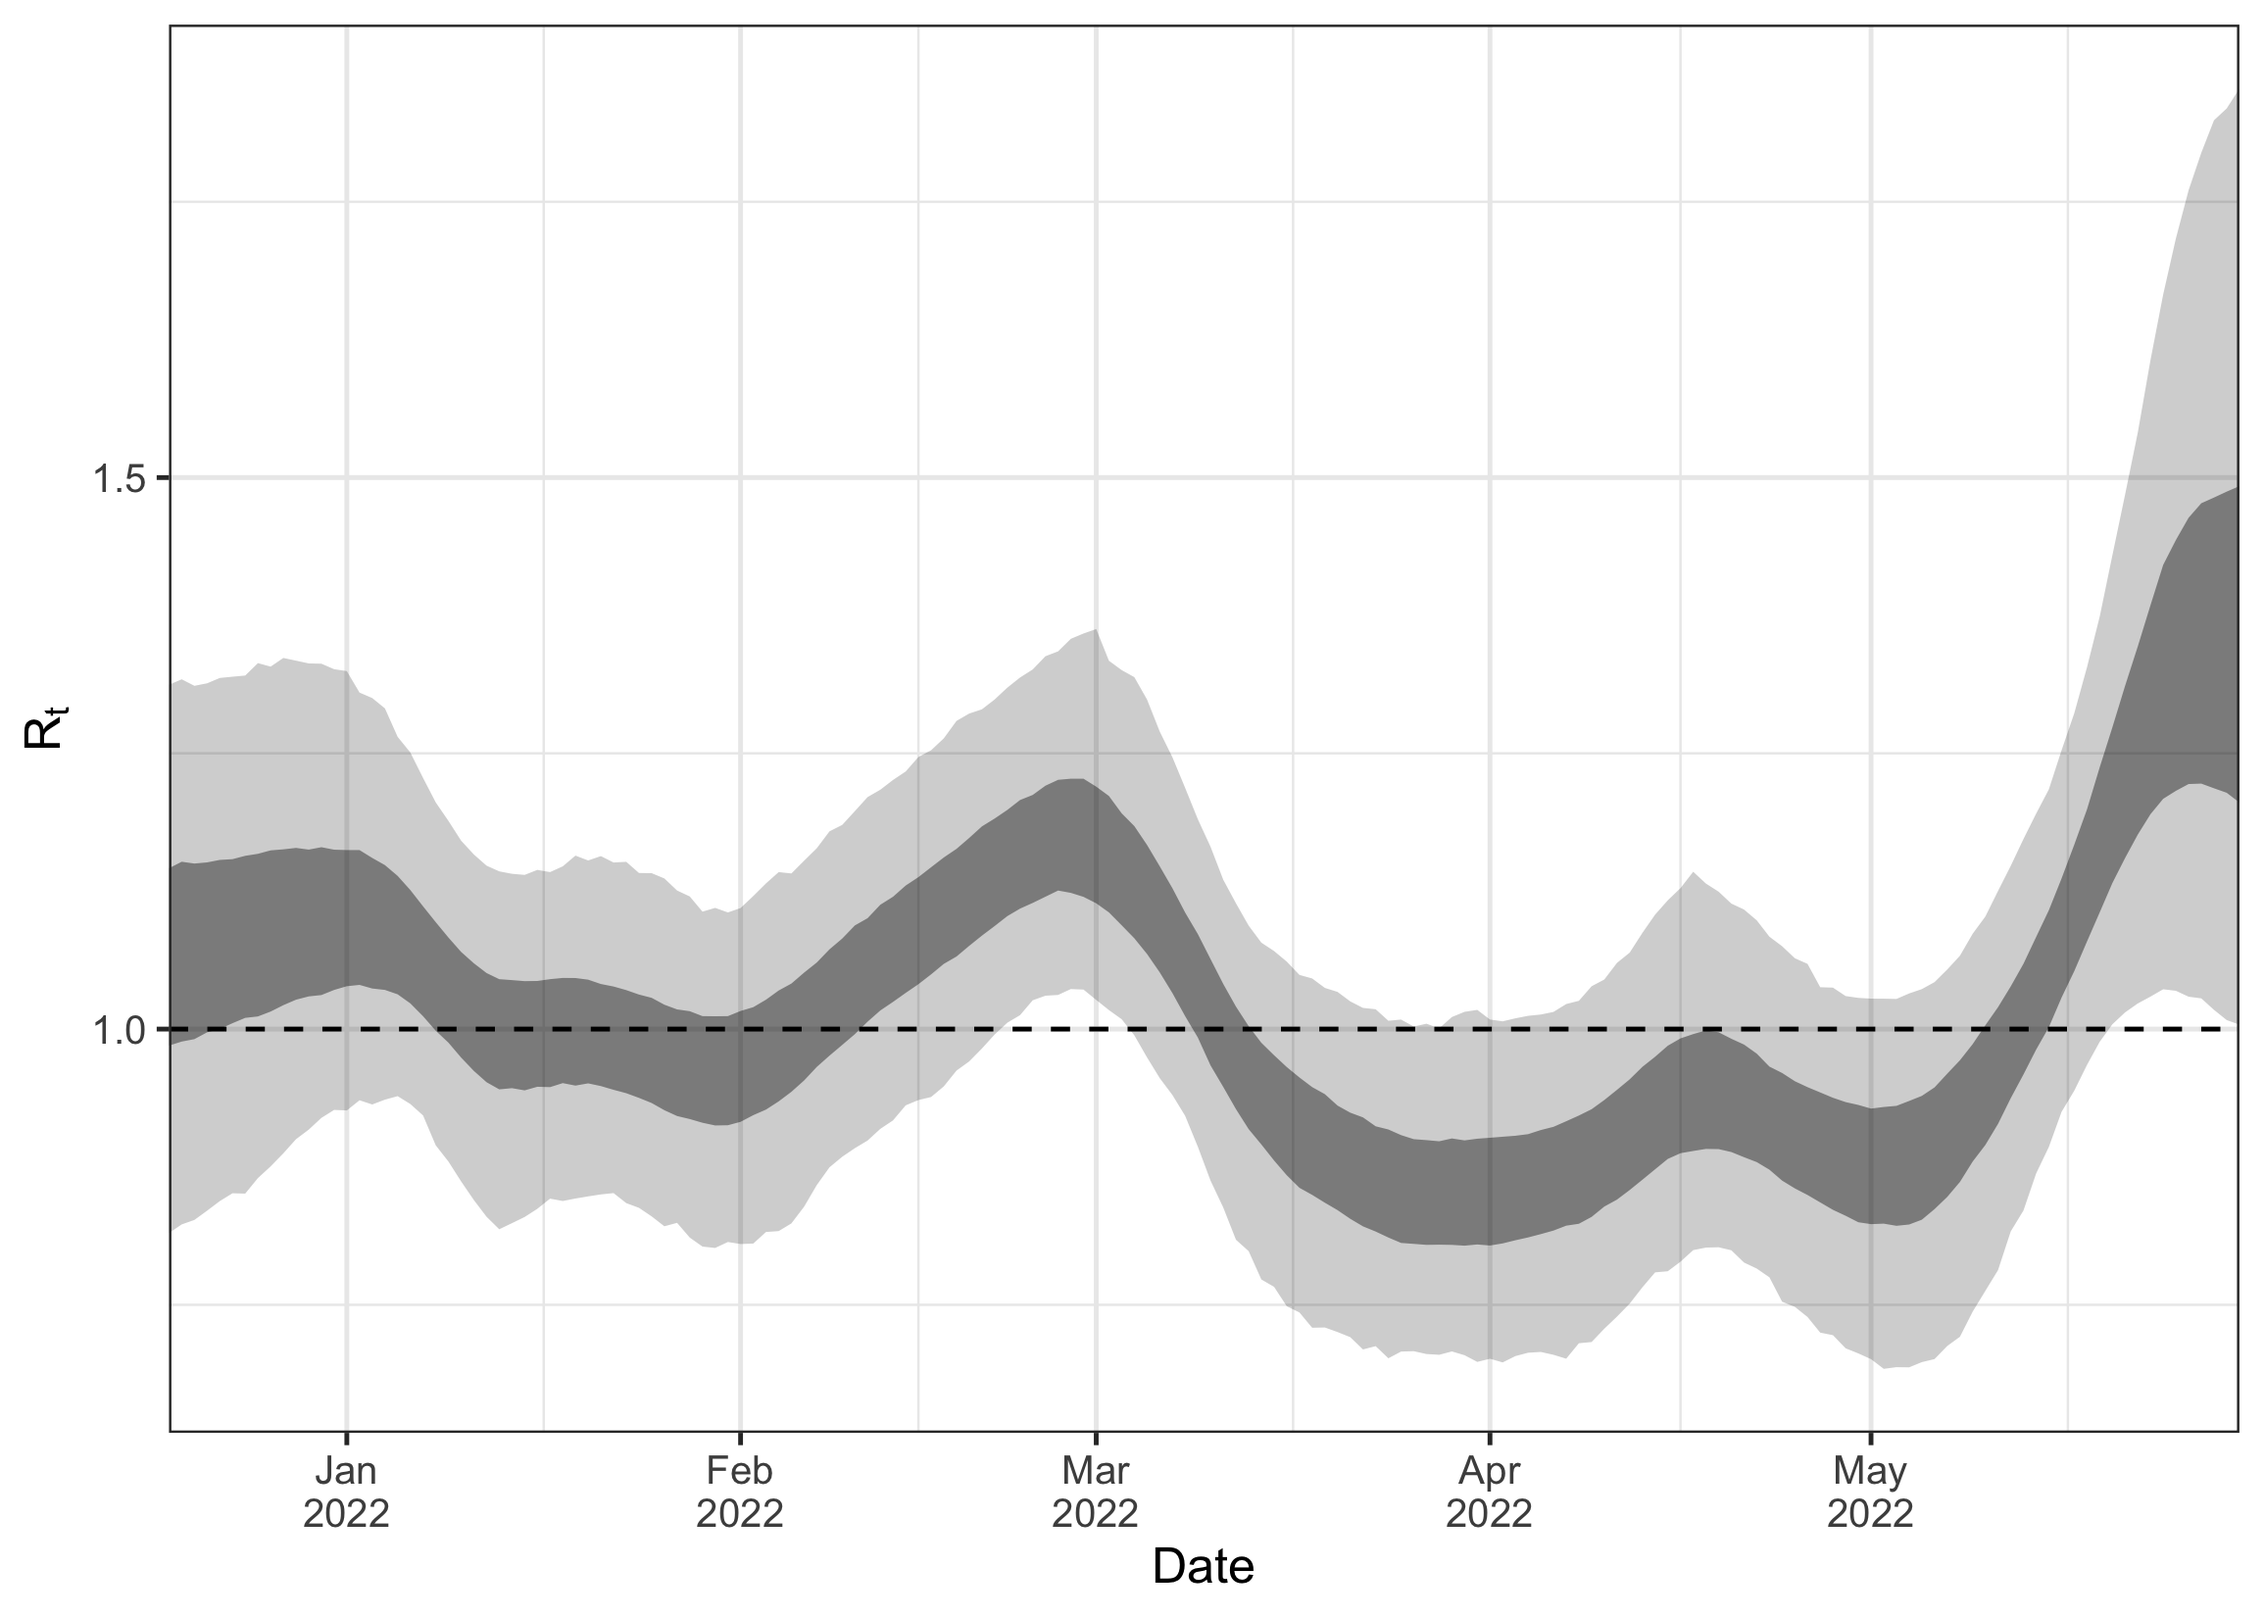
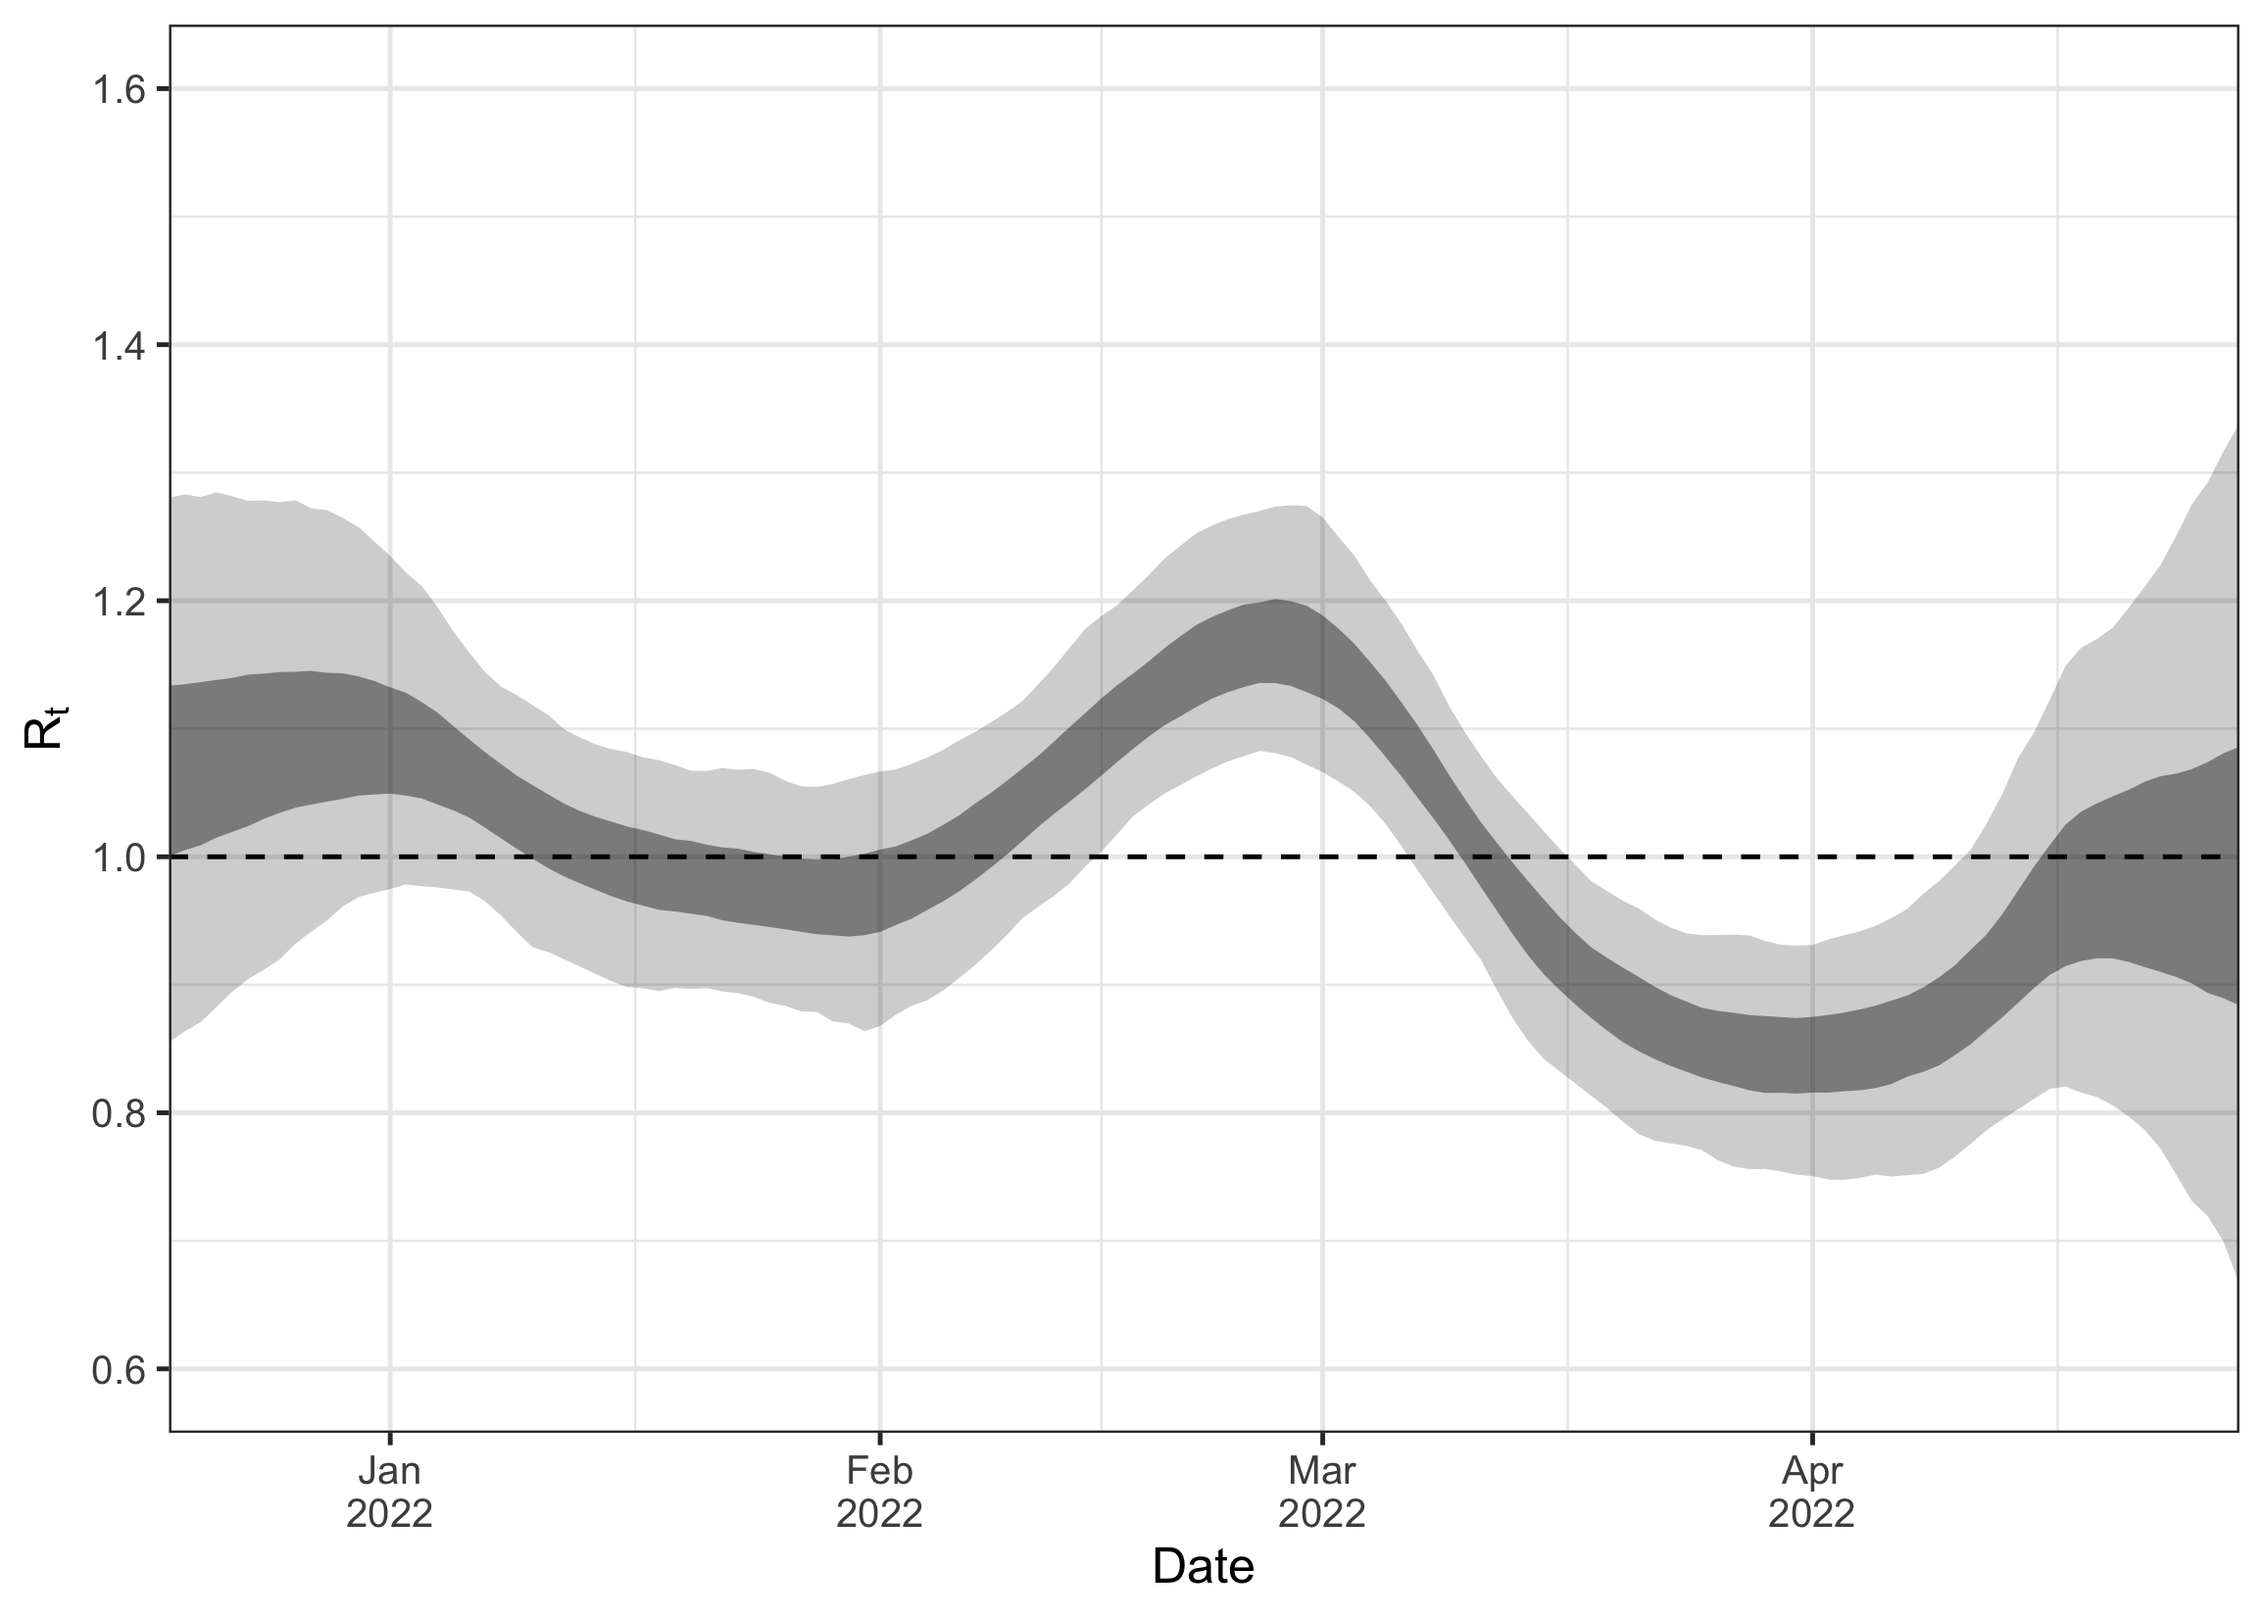
Update README

diff --git a/README.md b/README.md
@@ -100,17 +100,17 @@ assumptions.
 ``` r
 str(data_zurich)
 #> List of 4
-#>  $ measurements:Classes 'data.table' and 'data.frame':   151 obs. of  2 variables:
-#>   ..$ date         : Date[1:151], format: "2022-01-01" "2022-01-02" ...
-#>   ..$ concentration: num [1:151] NA NA 456 748 574 ...
+#>  $ measurements:Classes 'data.table' and 'data.frame':   120 obs. of  2 variables:
+#>   ..$ date         : Date[1:120], format: "2022-01-01" "2022-01-02" ...
+#>   ..$ concentration: num [1:120] NA NA 456 748 574 ...
 #>   ..- attr(*, ".internal.selfref")=<externalptr> 
-#>  $ flows       :Classes 'data.table' and 'data.frame':   151 obs. of  2 variables:
-#>   ..$ date: Date[1:151], format: "2022-01-01" "2022-01-02" ...
-#>   ..$ flow: num [1:151] 3.41e+11 3.41e+11 1.59e+11 1.61e+11 3.72e+11 ...
+#>  $ flows       :Classes 'data.table' and 'data.frame':   120 obs. of  2 variables:
+#>   ..$ date: Date[1:120], format: "2022-01-01" "2022-01-02" ...
+#>   ..$ flow: num [1:120] 3.41e+11 3.41e+11 1.59e+11 1.61e+11 3.72e+11 ...
 #>   ..- attr(*, ".internal.selfref")=<externalptr> 
-#>  $ cases       :Classes 'data.table' and 'data.frame':   151 obs. of  2 variables:
-#>   ..$ date : Date[1:151], format: "2022-01-01" "2022-01-02" ...
-#>   ..$ cases: num [1:151] NA NA 323 367 348 ...
+#>  $ cases       :Classes 'data.table' and 'data.frame':   120 obs. of  2 variables:
+#>   ..$ date : Date[1:120], format: "2022-01-01" "2022-01-02" ...
+#>   ..$ cases: num [1:120] NA NA 323 367 348 ...
 #>   ..- attr(*, ".internal.selfref")=<externalptr> 
 #>  $ units       :List of 2
 #>   ..$ concentration: chr "gc/mL"
@@ -132,11 +132,11 @@ data_zurich$measurements
 #>   4: 2022-01-04      747.8792
 #>   5: 2022-01-05      573.7020
 #>  ---                         
-#> 147: 2022-05-27      278.0198
-#> 148: 2022-05-28      238.0627
-#> 149: 2022-05-29      161.5694
-#> 150: 2022-05-30      600.0688
-#> 151: 2022-05-31      418.8482
+#> 116: 2022-04-26      182.3664
+#> 117: 2022-04-27      379.2421
+#> 118: 2022-04-28      439.7427
+#> 119: 2022-04-29      394.0033
+#> 120: 2022-04-30      293.1242
 ```
 
 To show the handling of missing data more clearly, we make our data
@@ -178,18 +178,18 @@ concentration (mL here in both cases).
 
 ``` r
 data_zurich$flows
-#>            date         flow
-#>   1: 2022-01-01 341163082483
-#>   2: 2022-01-02 341163082483
-#>   3: 2022-01-03 158972454250
-#>   4: 2022-01-04 160849294683
-#>   5: 2022-01-05 372301227483
-#>  ---                        
-#> 147: 2022-05-27 149443751917
-#> 148: 2022-05-28 142955378400
-#> 149: 2022-05-29 143776386433
-#> 150: 2022-05-30 151964157700
-#> 151: 2022-05-31 155315855550
+#>            date        flow
+#>   1: 2022-01-01 3.41163e+11
+#>   2: 2022-01-02 3.41163e+11
+#>   3: 2022-01-03 1.58972e+11
+#>   4: 2022-01-04 1.60849e+11
+#>   5: 2022-01-05 3.72301e+11
+#>  ---                       
+#> 116: 2022-04-26 3.30659e+11
+#> 117: 2022-04-27 2.06046e+11
+#> 118: 2022-04-28 1.58373e+11
+#> 119: 2022-04-29 1.52156e+11
+#> 120: 2022-04-30 2.08685e+11
 ```
 
 Note: In contrast to the concentration measurements, the flow data must
@@ -266,7 +266,7 @@ suggest_load_per_case(
   data_zurich$flows,
   ascertainment_prop = 1
 )
-#> [1] 6e+11
+#> [1] 5.9e+11
 ```
 
 Hence we will assume `6e+11 gc/person` as the average shedding load.
@@ -308,7 +308,7 @@ options(mc.cores = 4) # allow stan to use 4 cores, i.e. one for each chain
 ww_result <- EpiSewer(
   data = ww_data,
   assumptions = ww_assumptions,
-  fit_opts = set_fit_opts(sampler = sampler_stan_mcmc(iter_warmup = 500, iter_sampling = 1000, chains = 4))
+  fit_opts = set_fit_opts(sampler = sampler_stan_mcmc(iter_warmup = 1000, iter_sampling = 1000, chains = 4))
 )
 ```
 
@@ -355,20 +355,23 @@ plot_concentration(ww_result, measurements = data_zurich$measurements, include_n
 
 Since the model fit looked decent at first glance, we now inspect our
 main parameter of interest, the effective reproduction number over time.
-Again, the ribbon shows the 95% credible interval.
+Again, the ribbon shows the 95% credible interval. We see that even with
+only two measurements per week, we get a fairly clear signal for R being
+above or below the critical threshold of 1.
 
 ``` r
 plot_R(ww_result)
 ```
 
-<img src="man/figures/README-R-1.png" width="100%" /> We can see that
-the estimates for R go back further into the past than our observations.
-This is due to the delay from infection to shedding, i.e. concentration
-measurements observed today are mostly a signal of infections in the
-past. This is also why the R estimates close to the present are strongly
-uncertain. The measurements observed until the present provide only a
-delayed signal about transmission dynamics, so the most recent R
-estimates are informed by only little data.
+<img src="man/figures/README-R-1.png" width="100%" />
+
+Note that the estimates for R go back further into the past than our
+observations. This is due to the delay from infection to shedding,
+i.e. concentration measurements observed today are mostly a signal of
+infections in the past. This is also why the R estimates close to the
+present are strongly uncertain. The measurements observed until the
+present provide only a delayed signal about transmission dynamics, so
+the most recent R estimates are informed by only little data.
 
 #### Latent parameters
 
@@ -407,7 +410,7 @@ We can further inspect our results object. It has three attributes:
 
 ``` r
 names(ww_result)
-#> [1] "job"     "summary" "fitted"
+#> [1] "job"     "hashes"  "summary" "fitted"
 ```
 
 The `job` attribute stores all information about the job that was
@@ -417,9 +420,9 @@ meta-information, and the settings for the sampler. By calling
 
 ``` r
 names(ww_result$job)
-#>  [1] "job_name"      "jobarray_size" "data"          "init"         
-#>  [5] "fit_opts"      "priors_text"   "meta_info"     "overwrite"    
-#>  [9] "model"         "model_stan"
+#>  [1] "job_name"      "jobarray_size" "model_stan"    "data"         
+#>  [5] "model"         "init"          "fit_opts"      "priors_text"  
+#>  [9] "metainfo"      "overwrite"
 ```
 
 In particular, we can print a concise summary of the modeling details
@@ -447,7 +450,7 @@ ww_result$job$model
 #> 
 #> infections
 #>  |- generation_dist_assume
-#>  |- R_estimate_rw
+#>  |- R_estimate_splines
 #>  |- seeding_estimate_rw
 #>  |- infection_noise_estimate
 ```
@@ -472,18 +475,18 @@ number.
 
 ``` r
 ww_result$summary$R
-#>            date     mean   median lower_0.95 lower_0.5 upper_0.95 upper_0.5
-#>   1: 2021-12-06 1.045315 1.048455  0.6545776 0.9272795   1.411848  1.165302
-#>   2: 2021-12-07 1.045749 1.048955  0.6712394 0.9291202   1.411490  1.164115
-#>   3: 2021-12-08 1.046740 1.048185  0.6976070 0.9357220   1.388787  1.160318
-#>   4: 2021-12-09 1.047307 1.049825  0.7063578 0.9420907   1.380422  1.156362
-#>   5: 2021-12-10 1.047131 1.051345  0.7073939 0.9462520   1.369877  1.150200
-#>  ---                                                                       
-#> 172: 2022-05-26 1.349490 1.333315  1.0293482 1.2221525   1.760449  1.463567
-#> 173: 2022-05-27 1.357525 1.337010  1.0278413 1.2225450   1.794444  1.476707
-#> 174: 2022-05-28 1.360521 1.340215  1.0174218 1.2183100   1.823932  1.481882
-#> 175: 2022-05-29 1.361005 1.336515  1.0081528 1.2142350   1.834631  1.487255
-#> 176: 2022-05-30 1.361629 1.338500  1.0040498 1.2054100   1.852623  1.492240
+#>            date      mean    median lower_0.95 lower_0.5 upper_0.5 upper_0.95
+#>   1: 2021-12-06 1.0426791 1.0425000  0.7180512 0.9429652  1.147620   1.357138
+#>   2: 2021-12-07 1.0432292 1.0431400  0.7351968 0.9481753  1.142900   1.345717
+#>   3: 2021-12-08 1.0440299 1.0446050  0.7540923 0.9512257  1.137960   1.334841
+#>   4: 2021-12-09 1.0450871 1.0457950  0.7651638 0.9558753  1.135803   1.324241
+#>   5: 2021-12-10 1.0464089 1.0472550  0.7759100 0.9602262  1.133820   1.322272
+#>  ---                                                                         
+#> 140: 2022-04-24 0.9868777 0.9820210  0.7517854 0.9060957  1.064933   1.250580
+#> 141: 2022-04-25 0.9863933 0.9807570  0.7308977 0.9010367  1.068500   1.275355
+#> 142: 2022-04-26 0.9861018 0.9812930  0.7192404 0.8936360  1.073967   1.292529
+#> 143: 2022-04-27 0.9862395 0.9795155  0.6991881 0.8894863  1.080833   1.316732
+#> 144: 2022-04-28 0.9867506 0.9798795  0.6661445 0.8838173  1.085965   1.338514
 #>      seeding
 #>   1:    TRUE
 #>   2:    TRUE
@@ -491,15 +494,15 @@ ww_result$summary$R
 #>   4:    TRUE
 #>   5:    TRUE
 #>  ---        
-#> 172:   FALSE
-#> 173:   FALSE
-#> 174:   FALSE
-#> 175:   FALSE
-#> 176:   FALSE
+#> 140:   FALSE
+#> 141:   FALSE
+#> 142:   FALSE
+#> 143:   FALSE
+#> 144:   FALSE
 ```
 
-Finally, the `fitted` attribute provides access to all details of the
-fitted stan model. See
+The `fitted` attribute provides access to all details of the fitted stan
+model. See
 [cmdstanr](https://mc-stan.org/cmdstanr/reference/CmdStanMCMC.html) for
 details.
 
@@ -539,5 +542,26 @@ ww_result$fitted$diagnostic_summary()
 #> [1] 0 0 0 0
 #> 
 #> $ebfmi
-#> [1] 0.8823145 0.8001372 0.8175664 0.8383984
+#> [1] 0.6082754 0.7733432 0.7691555 0.8166714
+```
+
+Finally, the `hashes` attribute gives us several hashes that uniquely
+identify the job which was run. These can be used to check whether two
+job results used the same or different models, input data, fitting
+options, or inits. If all hashes are identical (and the seed is not
+NULL), then the results should also be identical.
+
+``` r
+ww_result$hashes
+#> $model
+#> [1] "628ed04c15688d9f64124147adacfa0d"
+#> 
+#> $input
+#> [1] "034773afefcd7d0e3176f333f2bc0c8e"
+#> 
+#> $fit_opts
+#> [1] "458631d149cd4e1103587d05ea267b7f"
+#> 
+#> $init
+#> [1] "e03a62ec4353e326374c2e4b6d233f54"
 ```
